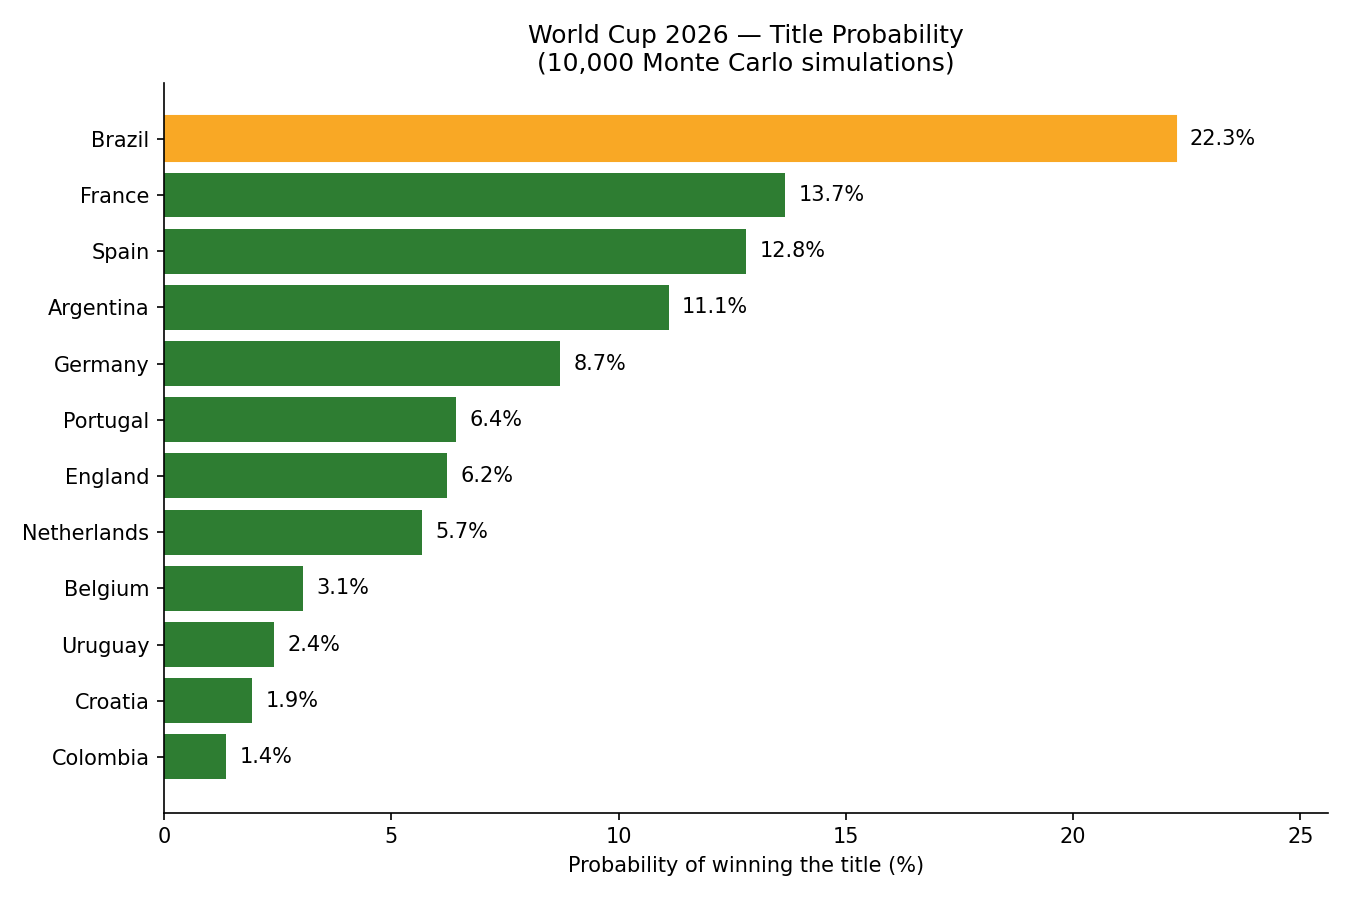
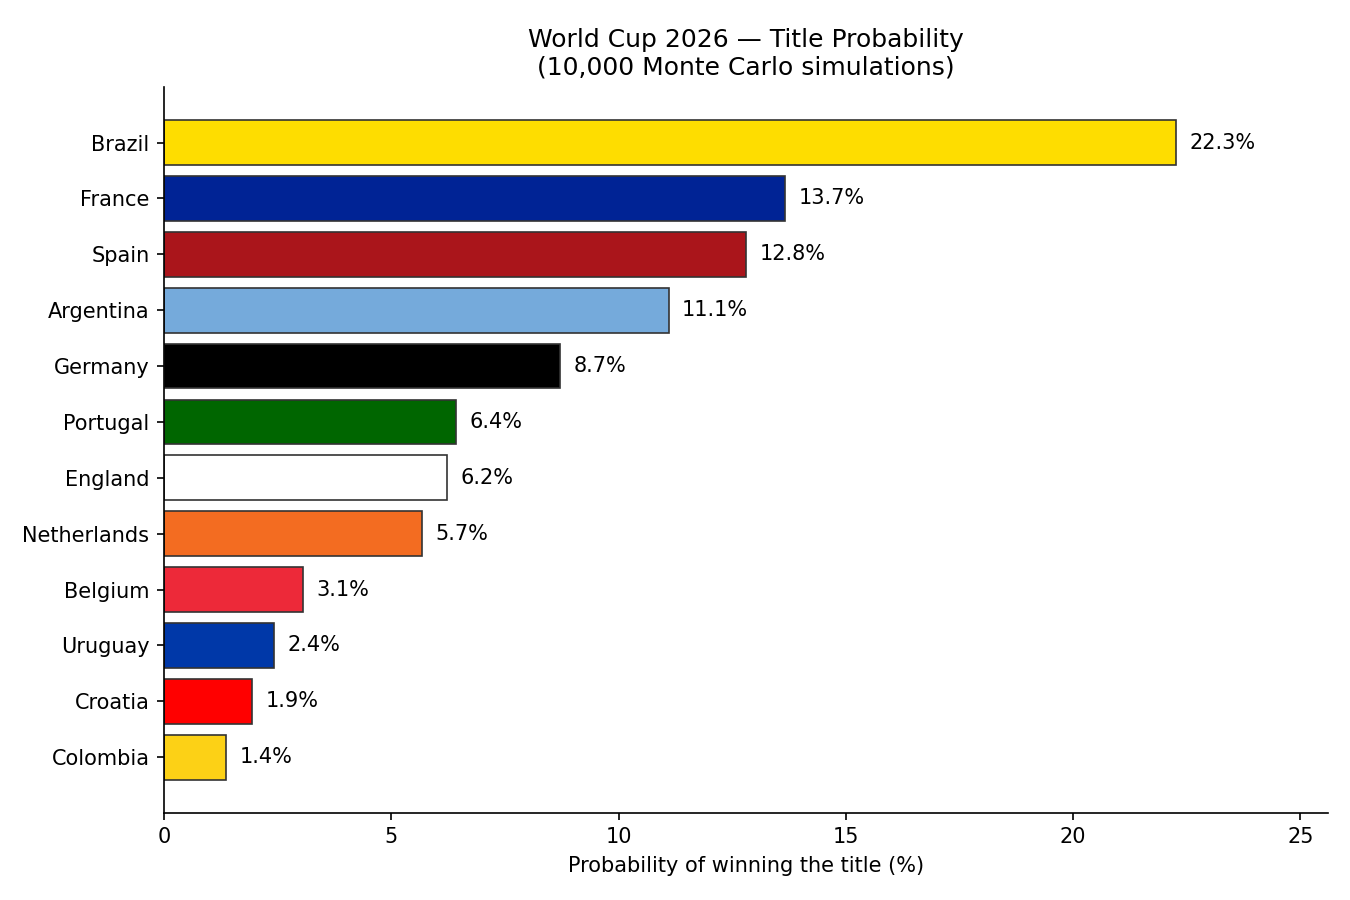
describe your change

Changed region(s): [[0.0311, 0.1244, 0.9333, 0.8711], [0.3733, 0.0311, 0.7156, 0.0933], [0.0311, 0.56, 0.0622, 0.6222]]

diff --git a/wc.py b/wc.py
@@ -107,8 +107,17 @@ for team, pct in result.head(15).items():
 # ---------- Step 6: make the chart ----------
 top = result.head(12).iloc[::-1]
 fig, ax = plt.subplots(figsize=(9, 6))
-bars = ax.barh(top.index, top.values, color='#2e7d32')
-bars[-1].set_color('#f9a825')
+TEAM_COLORS = {
+    'Brazil': '#FEDD00', 'France': '#002395', 'Spain': '#AA151B',
+    'Argentina': '#75AADB', 'Germany': '#000000', 'Portugal': '#006600',
+    'England': '#FFFFFF', 'Netherlands': '#F36C21', 'Belgium': '#ED2939',
+    'Uruguay': '#0038A8', 'Croatia': '#FF0000', 'Colombia': '#FCD116',
+    'Morocco': '#C1272D', 'Switzerland': '#D52B1E', 'United States': '#3C3B6E',
+    'Mexico': '#006847', 'Japan': '#000080', 'Italy': '#0066CC',
+}
+bars = ax.barh(top.index, top.values,
+               color=[TEAM_COLORS.get(t, '#9e9e9e') for t in top.index],
+               edgecolor='#333333', linewidth=0.8)
 for bar, val in zip(bars, top.values):
     ax.text(val + 0.3, bar.get_y() + bar.get_height()/2,
             f'{val:.1f}%', va='center', fontsize=10)
